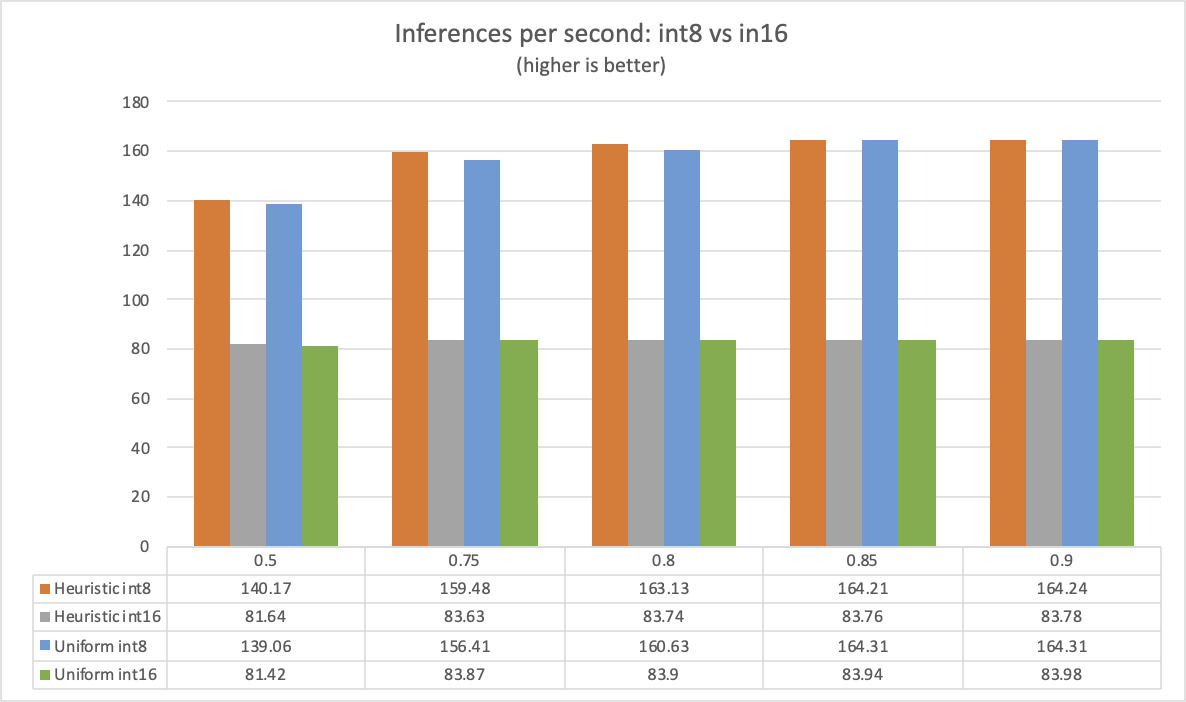
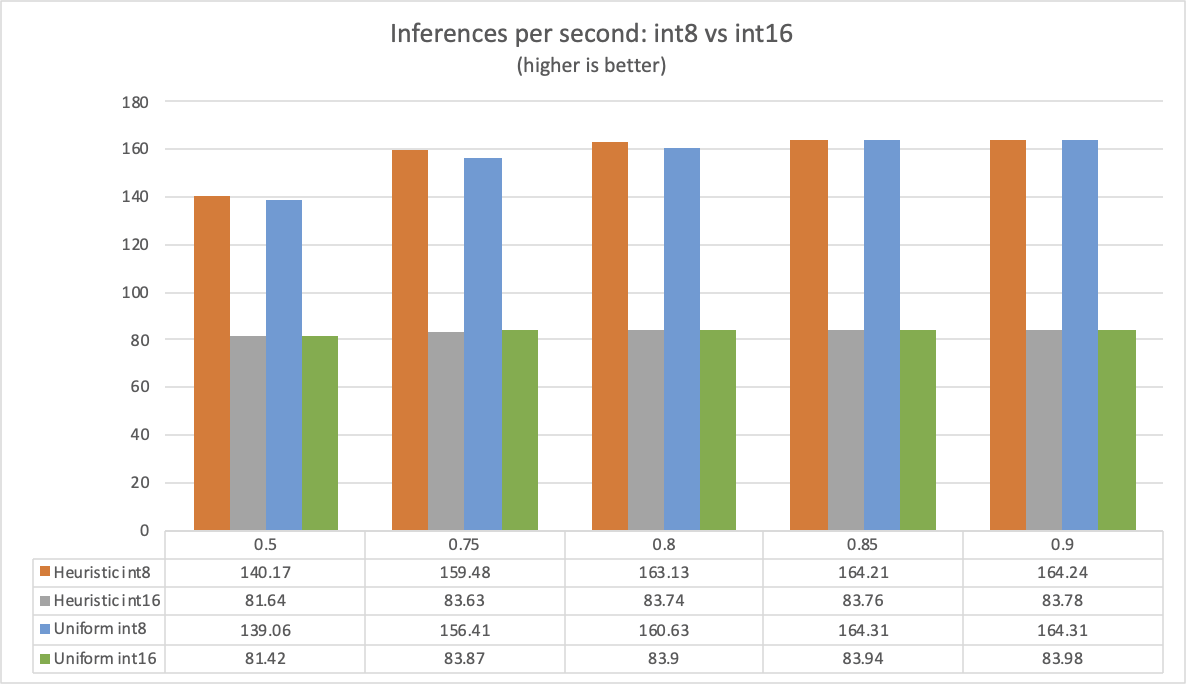
Add ImageNet results and various fixes
Fix some images with spelling errors
Remove "we" pronouns
Remove some latex warnings

diff --git a/results.tex b/results.tex
@@ -481,7 +481,7 @@ exactly the same.}
 As example let's take the 0.85 sparsity level and see how the weights are
 distributed in both heuristic and uniform distribution.
 
-\begin{lstlisting}[label={lst:heuristic_weights},
+\begin{lstlisting}[label={lst:heuristic_weights_cifar10},
     caption=MobileNet v1 and CIFAR-10: heuristic weights distributions]
 Conv2d_0_0:            864 weights,     384 zero weights,    0.4444444444444444 sparsity
 Conv2d_1/pointwise:    2048 weights,    1026 zero weights,   0.5009765625 sparsity
@@ -503,8 +503,8 @@ All weights: 3150698
 Overall model sparsity: 0.8499967309
 \end{lstlisting}
 
-As shown in \autoref{lst:heuristic_weights}, the heuristic distribution of the
-weights has set to zero about 91\% of the weights in the layer
+As shown in \autoref{lst:heuristic_weights_cifar10}, the heuristic distribution
+of the weights has set to zero about 91\% of the weights in the layer
 \texttt{Conv2d\_13/pointwise} while the first layers of the model have a
 sparsity below 50\%.
 
@@ -582,11 +582,11 @@ depending for what NPU it needs to optimise the tflite for.
 
 In this case the it has been optimised for an Ethos-U55 high-end embedded NPU
 with the following characteristics: SRAM, 4 GB/s and flash, 0.5 GB/s.
-\autoref{lst:vela_output} shows vela output with estimations. At the very end
+\autoref{lst:vela_output_cifa10} shows vela output with estimations. At the very end
 there is the inference speed (\texttt{Batch Inference time})
 
-\begin{lstlisting}[label={lst:vela_output},
-    caption=Vela output on an int8 tflite file]
+\begin{lstlisting}[label={lst:vela_output_cifar10},
+    caption=MobileNet v1 and CIFAR-10: vela output on an int8 tflite file]
 Warning: Using internal-default values for memory mode
 Info: MEAN model_2/top/GlobalPool/Mean is a CPU only op
 Warning: Mean operation is unknown or unsupported, placing on CPU
@@ -660,4 +660,206 @@ After seen the results using CIFAR-10, in this section the dataset used is
 ILSVRC (ImageNet Large Scale Visual Recognition Challenge) 2012, commonly known
 as ImageNet.
 
-Experiment results: \todo{Experiment results with ImageNet}
+There are no architectural changes to the model.
+
+The fine-tuning of the model has been done with the following hyper parameters
+found via experimentations:
+
+\begin{itemize}
+    \item \textbf{Optimizer}: SGD (Stochastic Gradient Descend)
+    \item \textbf{Optimizer momentum}: 0.9
+    \item \textbf{Optimizer decay rate}: 0.9
+    \item \textbf{Learning rate decay rate}: 0.94
+    \item \textbf{Learning rate decay epochs}: 2.5
+    \item \textbf{Dropout rate}: 0.2
+    \item \textbf{Standard weight decay}: 4e-05
+    \item \textbf{Truncated normal standard deviation}: 0.09
+    \item \textbf{Batch norm decay}: 0.9997
+    \item \textbf{Batch size}: 64
+    \item \textbf{Learning rate}: 0.001
+    \item \textbf{Epochs}: 20
+    \item \textbf{Sparsity scheduler}: Polynomial Decay
+\end{itemize}
+
+\subsubsection{Accuracy and loss results}
+For ImageNet I focus mainly on the FP32 results as similar considerations to
+CIFAR-10 can be done for quantized models in terms of accuracy.
+
+Like before, the heuristic distribution will be always compared to the uniform
+distribution.
+
+For reference, \textbf{the TOP-1 accuracy of a non-pruned MobileNet v1 with
+ImageNet is 0.709.}
+
+\autoref{fig:imagenet_top1_top5_loss} shows how the two distributions impact the
+TOP-1/TOP-5 accuracies and the loss function.
+
+\begin{figure}
+    \centering
+    {\includegraphics[width=.85\linewidth]{images/results/imagenet_top1.png}}
+    {\includegraphics[width=.85\linewidth]{images/results/imagenet_top5.png}}
+    {\includegraphics[width=.85\linewidth]{images/results/imagenet_loss.png}}
+    \caption{Heuristic vs Uniform: ImageNet TOP-1/TOP-5 and Loss}\label{fig:imagenet_top1_top5_loss}
+\end{figure}
+
+Like in the previous case, the heuristic distribution always outperforms the
+uniform distribution both for TOP-1 (blue line) and TOP-5 (grey line).
+The heuristic distribution seems more a little bit more robust compared to the
+uniform one as the sparsity increases the difference between the two sparsity
+increases slightly.
+When the sparsity is set to 0.9, the heuristic distribution has an increase of
+\textbf{1.02\% in the TOP-1} compared to the uniform distribution.
+\textbf{Any sparsity bigger than 0.5 is going to have an impact in terms of
+accuracy}: the TOP-1 accuracy for a non pruned model is 0.709 and for a
+sparsity of 0.5 there is a TOP-1 accuracy of 0.7021 for the heuristic
+distribution and 0.7011 for the uniform distribution.
+If the requirements of the application need to have a close accuracy of the
+original model, then 0.5 is a pretty good sparsity level. At this point
+choosing one of the other distribution changes very little in terms of
+accuracy: the heuristic has only \textbf{0.1041\%} more accuracy than the
+uniform distribution.
+If the application requires a smaller model, it needs to compromise in the
+accuracy: from 0.75 to 0.85 sparsity level, there is a drop of about 6\%.
+At 0.85 sparsity level, the heuristic distribution has an accuracy of
+\textbf{0.6018} whilst the uniform distributions falls in the range below, at
+\textbf{0.5927}.
+At 0.9 sparsity level there is a steeper drop in accuracy (around 0.52): with
+this accuracy it might not make any sense to deploy the model at all.
+If the sparsity needs to be between 0.5 and 0.85 then the heuristic
+distribution is the one of choice as it gives better accuracy.
+
+The loss follows has a specular behaviour of the TOP-1 accuracy: at 0.5
+sparsity level the loss function is the same for both distribution.
+From 0.75 to 0.85 they increase almost in a parallel fashion and to get to 0.9
+were both distributions have a steeper increase.
+Anyway from 0.75 to 0.9 the heuristic distribution (blue line) has always a
+smaller loss function compared to the uniform.
+This is another proof that the heuristic distribution seems more robust at
+higher sparsity levels.
+
+\subsubsection{tflite size results}
+Like in the previous case, the sparsity distribution doesn't really influence
+the size of the tflite: the number of weights is exactly the same between the
+uniform and the heuristic distributions.
+
+This model though is bigger than the previous one: even the architecture is the
+same, it deals with different input size: CIFAR-10 images are 32$\times$32
+whilst ImageNet images are 224$\times$224.
+
+Let's take the 0.85 sparsity level and see how the weights are distributed
+following the heuristic distribution.
+
+\begin{lstlisting}[label={lst:heuristic_weights_imagenet},
+    caption=MobileNet v1 and ImageNet: heuristic weights distributions]
+2021-02-19 15:26:23,484 Conv2d_0_0:            864 weights,     377 zero weights,    0.4363425925925926 sparsity
+2021-02-19 15:26:23,488 Conv2d_1/pointwise:    2048 weights,    1008 zero weights,   0.4921875 sparsity
+2021-02-19 15:26:23,492 Conv2d_2/pointwise:    8192 weights,    4765 zero weights,   0.5816650390625 sparsity
+2021-02-19 15:26:23,496 Conv2d_3/pointwise:    16384 weights,   10264 zero weights,  0.62646484375 sparsity
+2021-02-19 15:26:23,500 Conv2d_4/pointwise:    32768 weights,   21993 zero weights,  0.671173095703125 sparsity
+2021-02-19 15:26:23,504 Conv2d_5/pointwise:    65536 weights,   46919 zero weights,  0.7159271240234375 sparsity
+2021-02-19 15:26:23,508 Conv2d_6/pointwise:    131072 weights,  99704 zero weights,  0.76068115234375 sparsity
+2021-02-19 15:26:23,512 Conv2d_7/pointwise:    262144 weights,  211138 zero weights, 0.8054275512695312 sparsity
+2021-02-19 15:26:23,517 Conv2d_8/pointwise:    262144 weights,  211138 zero weights, 0.8054275512695312 sparsity
+2021-02-19 15:26:23,522 Conv2d_9/pointwise:    262144 weights,  211138 zero weights, 0.8054275512695312 sparsity
+2021-02-19 15:26:23,526 Conv2d_10/pointwise:   262144 weights,  211138 zero weights, 0.8054275512695312 sparsity
+2021-02-19 15:26:23,531 Conv2d_11/pointwise:   262144 weights,  211138 zero weights, 0.8054275512695312 sparsity
+2021-02-19 15:26:23,536 Conv2d_12/pointwise:   524288 weights,  445735 zero weights, 0.8501720428466797 sparsity
+2021-02-19 15:26:23,543 Conv2d_13/pointwise:   1048576 weights, 938389 zero weights, 0.8949174880981445 sparsity
+2021-02-19 15:26:23,547 top/Conv2d_1x1_output: 1026025 weights, 915809 zero weights, 0.8925796155064448 sparsity
+2021-02-19 15:26:23,547 Sparse weights: 3540653
+2021-02-19 15:26:23,547 All weights: 4166473
+2021-02-19 15:26:23,547 Overall model sparsity: 0.849796218528237
+\end{lstlisting}
+
+As shown in \autoref{lst:heuristic_weights_imagenet}, the heuristic
+distribution of the weights has set different sparsity levels for every layer
+depending on how many weights a layer has.
+
+As reference, the uncompressed version of the tflite files are:
+\begin{itemize}
+    \item \textbf{FP32}: 16.91Mb
+    \item \textbf{int8}: 4.66Mb
+    \item \textbf{int16}: 4.71Mb
+\end{itemize}
+
+At 0.85 sparsity level, there are the following gains in terms of sizes:
+\begin{itemize}
+    \item \textbf{FP32}: 16.91Mb $\rightarrow$ 4.07Mb, a \textbf{decrease of 75.93\%}
+    \item \textbf{int8}: 4.66Mb $\rightarrow$ 1.43Mb, a \textbf{decrease of 69.31\%}
+    \item \textbf{int16}: 4.71Mb $\rightarrow$ 1.13, a \textbf{decrease of 76.01\%}
+\end{itemize}
+
+The non pruned quantized models (both int8 and int16) have a \textbf{vela size
+of 3.96Mb.}. The pruned ones have a \textbf{vela size of 1.16Mb}, a \textbf{a
+decrease of 71.46\%}.
+
+Let's take the 2 extreme points of the tflite sizes: FP32 non pruned and
+int8/int16 pruned at 0.85. \textbf{The tflite size goes from 16.91 to 1.16Mb,
+a decrease of 93.14\%}.
+
+\subsubsection{Inference speed results (int8 and int16 only)}
+Like in the previous, I have run vela for every experiment and the same
+conclusions can be made: the distribution doesn't really impact the inference
+speed.
+It looks like though that the heuristic distributions is slightly faster than
+the uniform one but the increase is so small that can be ignored.
+
+Let's take the inference time for non-pruned tflite files and see what kind of
+speed up there is with a pruned model at 0.85 (as shown in
+\autoref{lst:vela_output_imagenet})
+
+\begin{lstlisting}[label={lst:vela_output_imagenet},
+    caption=MobileNet v1 and ImageNet: vela output on an int8 tflite file]
+Info: MEAN model_2/top/GlobalPool/Mean is a CPU only op
+Warning: Mean operation is unknown or unsupported, placing on CPU
+
+Network summary for mobilenet-v1_imagenet2012-int8-pruned
+Accelerator configuration               Ethos_U55_256
+System configuration             Ethos_U55_High_End_Embedded
+Memory mode                          internal-default
+Accelerator clock                                 500 MHz
+Design peak SRAM bandwidth                       4.00 GB/s
+Design peak Off-chip Flash bandwidth             0.50 GB/s
+
+Total SRAM used                                599.80 KiB
+Total Off-chip Flash used                     1130.38 KiB (2.11 bits per element)
+
+69 passes fused into 63
+1/187 (53.5%) operations falling back to the CPU
+Average SRAM bandwidth                           2.69 GB/s
+Input   SRAM bandwidth                           9.77 MB/batch
+Weight  SRAM bandwidth                           6.40 MB/batch
+Output  SRAM bandwidth                           5.06 MB/batch
+Total   SRAM bandwidth                          21.24 MB/batch
+Total   SRAM bandwidth            per input     21.24 MB/inference (batch size 1)
+
+Average Off-chip Flash bandwidth                 0.14 GB/s
+Input   Off-chip Flash bandwidth                 0.12 MB/batch
+Weight  Off-chip Flash bandwidth                 0.99 MB/batch
+Output  Off-chip Flash bandwidth                 0.00 MB/batch
+Total   Off-chip Flash bandwidth                 1.12 MB/batch
+Total   Off-chip Flash bandwidth  per input      1.12 MB/inference (batch size 1)
+
+Neural network macs                         568749545 MACs/batch
+Hardware macs                               677312576 MACs/batch
+Network Tops/s                                   0.14 Tops/s
+Hardware Tops/s                                  0.17 Tops/s
+
+NPU cycles                                    3812208 cycles/batch
+SRAM Access cycles                            2655593 cycles/batch
+DRAM Access cycles                                  0 cycles/batch
+On-chip Flash Access cycles                         0 cycles/batch
+Off-chip Flash Access cycles                  1115488 cycles/batch
+Total cycles                                  3946734 cycles/batch
+
+Batch Inference time                 7.89 ms,  126.69 inferences/s (batch size 1)
+\end{lstlisting}
+
+
+\begin{itemize}
+    \item \textbf{int8}: 11.84ms $\rightarrow$ 7.89ms, a \textbf{decrease of 33.36\%}
+    \item \textbf{int16}: 17.71ms $\rightarrow$ 14.73ms, a \textbf{decrease of 16.83\%}
+\end{itemize}
+
+These measurements are anyway bigger than the previous case because the model
+generated is bigger hence it needs more time to be executed by the NPU\@.

diff --git a/pruning.tex b/pruning.tex
@@ -338,8 +338,8 @@ Whilst pruning has mostly a positive impact on the above metrics, this
 optimization might have a negative impact on accuracy of the network model. Of
 course, the drop in accuracy needs to be limited or removed completely and
 there are techniques for doing so.
-In the section though, I will focus on the trade-offs we need to consider
-when pruning a network model.
+In the section though, I will focus on the trade-offs which need to be
+considered when pruning a network model.
 
 \begin{figure}[ht]
     \includegraphics[width=11cm]{images/pruning/tradeoff.png}
@@ -360,8 +360,8 @@ inference performance. Three typical scenarios are illustrated in \autoref{fig:t
     \item \textbf{Quick deployment}: the trade-off between accuracy and
         performance is the key in this region.
     \item \textbf{Performance-driven}: this region represents the deployment on
-        highly resource-constrained devices where we reach the limit of
-        optimizations.
+        highly resource-constrained devices where the limit of optimizations is
+        reached.
 \end{itemize}
 
 Accuracy usually is measured with Top-1 and/or Top-5 terms. These are:
@@ -374,8 +374,8 @@ Accuracy usually is measured with Top-1 and/or Top-5 terms. These are:
 \end{itemize}
 
 When calculating accuracy, Top-1/5 are used to compare against other metrics.
-Depending where the model is needed for, we might need different levels of
-optimizations and they might target different kinds of metrics.
+Depending where the model is needed for, a different levels of optimizations is
+needed and they might target different kinds of metrics.
 Pruning is one of those techniques which affect any aspect of the neural
 network: model size, memory used, latency etc
 

diff --git a/abstract.tex b/abstract.tex
@@ -14,6 +14,7 @@ After explaining the theory behind this approach, the code is explained and
 applied to a simple MNIST based network model using TensorFlow Model
 Optimization.
 The ending chapter shows results of experiments running on MobileNet v1
-architecture using CIRAF10 and ImageNet 2012 as datasets.
-\todo{Add experiments results}
+architecture using CIFAR-10 and ImageNet 2012 as datasets.
+The heuristic distribution of weights behave more robustly compared to the
+uniform distribution especially with higher sparsity levels.
 \end{abstract}

diff --git a/introduction.tex b/introduction.tex
@@ -373,7 +373,7 @@ Subclassed Models, RNN/LSTM models, stable APIs, etc\ldots)
     \caption{QAT on image classification}\label{fig:qat_image_classification}
 \end{figure}
 
-The models in \autoref{fig:qat_image_classification} were tested on Imagenet
+The models in \autoref{fig:qat_image_classification} were tested on ImageNet
 and evaluated in both TensorFlow and TFLite.
 
 For background on something similar, see the \textit{Quantization and Training

diff --git a/appendix.tex b/appendix.tex
@@ -7,6 +7,6 @@
 \lstinputlisting[language=Python, caption=Content of prune.py]{code/prune.py}
 
 \chapter{MNIST pipeline with heuristic pruning}\label{appendix:mnist}
-\lstinputlisting[language=Python, caption=Content of prune.py]{code/full_heuristic_pruning_mnist.py}
+\lstinputlisting[language=Python, caption=Content of full\_heuristic\_pruning\_mnist.py]{code/full_heuristic_pruning_mnist.py}
 
 \end{appendices}

diff --git a/diego_russo_master_thesis.tex b/diego_russo_master_thesis.tex
@@ -1,4 +1,4 @@
-\documentclass[a4paper, 12pt]{report}
+\documentclass[a4paper]{report}
 \usepackage{amssymb}  % Symbol collection
 \usepackage[toc,page]{appendix}
 \usepackage[english]{babel}  % Multilingual support
